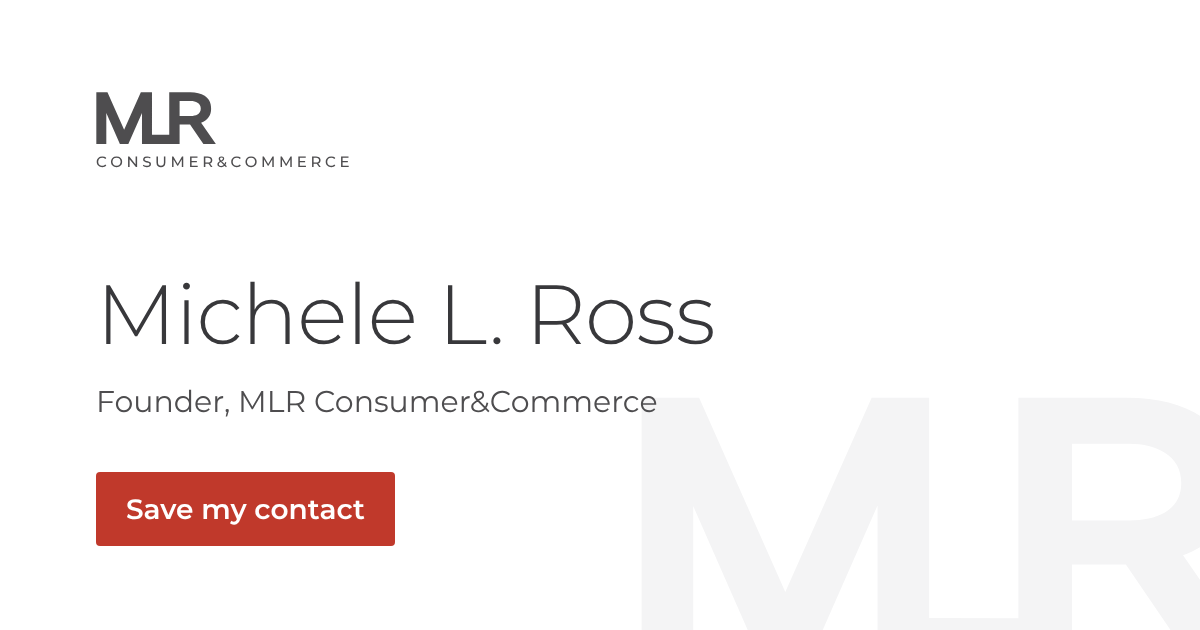
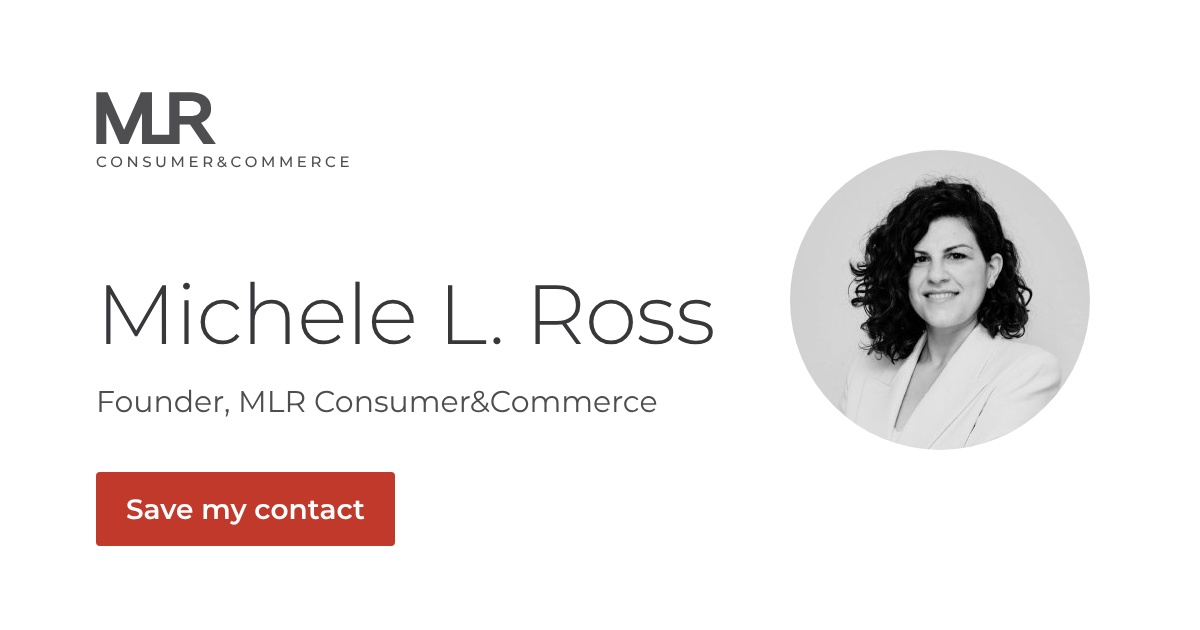
Headshot (BW) on About, card page, link preview and vCard
Claude-Session: https://claude.ai/code/session_01Y3UJvKqWwB9vFzEFEmUV8h

Changed region(s): [[0.6475, 0.2413, 0.925, 0.7238]]

diff --git a/mlr-bio/index.html b/mlr-bio/index.html
@@ -48,7 +48,7 @@ footer a { color: var(--muted); }
 <body>
 <main>
   <a class="lockup" href="../index.html" aria-label="MLR Consumer&amp;Commerce, home"><svg xmlns="http://www.w3.org/2000/svg" viewBox="18 29 362 157" role="img" aria-label="MLR"><path fill="currentColor" d="M379.635,185.916l-44.563-64.448c20.153-7.743,30.23-21.831,30.23-42.269c0-17.017-6.484-29.885-19.455-38.605c-11.159-7.393-25.595-11.091-43.309-11.091h-63.602v128.724l-52.095-0.116l-0.003-72.633V29.506h-22.816l-7.019-0.003c-0.05,0-0.097,0.003-0.145,0h-0.145v0.003h-3.45l-50.42,113.306L52.525,29.506h-33.58v156.412h30.127V92.698l41.007,93.221H115.5l41.213-93.637v93.637h0.003h30.127h83.371v-27.623v-0.003v-31.489h31.486l40.275,59.112H379.635z M324.193,96.567c-5.302,3-12.171,4.498-20.609,4.498h-33.369V56.286h33.369c8.439,0,15.307,1.712,20.609,5.128c6.555,4.045,9.834,9.977,9.834,17.786C334.027,86.943,330.748,92.732,324.193,96.567"/></svg><span>CONSUMER&amp;COMMERCE</span></a>
-  <div class="photo" role="img" aria-label="Photo of Michele L. Ross">Photo to come</div>
+  <div class="photo"><img src="../assets/img/michele-ross.jpg" alt="Michele L. Ross" width="300" height="300"></div>
   <h1>Michele L. Ross</h1>
   <p class="role">Founder, MLR Consumer&amp;Commerce</p>
   <p class="line">I help founders of desire-led brands find the customers who drive value, so the effort they put in starts to pay off.</p>

diff --git a/src/about.html b/src/about.html
@@ -26,7 +26,7 @@ nav:
 
 <section class="section panel" aria-labelledby="founder">
   <div class="wrap split">
-    <figure class="portrait" aria-label="Photo of Michele Ross to come"><span>Photo to come</span></figure>
+    <figure class="portrait"><img src="assets/img/michele-ross.jpg" alt="Michele Ross" width="300" height="300"></figure>
     <div>
       <h2 id="founder">Michele Ross</h2>
       <p class="kicker" style="margin-top:1rem">Founder</p>

diff --git a/about.html b/about.html
@@ -43,7 +43,7 @@
 
 <section class="section panel" aria-labelledby="founder">
   <div class="wrap split">
-    <figure class="portrait" aria-label="Photo of Michele Ross to come"><span>Photo to come</span></figure>
+    <figure class="portrait"><img src="assets/img/michele-ross.jpg" alt="Michele Ross" width="300" height="300"></figure>
     <div>
       <h2 id="founder">Michele Ross</h2>
       <p class="kicker" style="margin-top:1rem">Founder</p>

diff --git a/assets/site.css b/assets/site.css
@@ -252,3 +252,5 @@ html { scroll-behavior: smooth; }
 .case .eyebrow { margin: 0 0 .6rem; }
 .case-full dl + .case-source { grid-column: 2; }
 .case-source { font-size: .85rem; color: var(--muted); margin: 1.5rem 0 0; }
+.portrait { aspect-ratio: 1 / 1; max-width: 15rem; border: 0; background: none; }
+.portrait img { width: 100%; height: 100%; object-fit: cover; display: block; }
